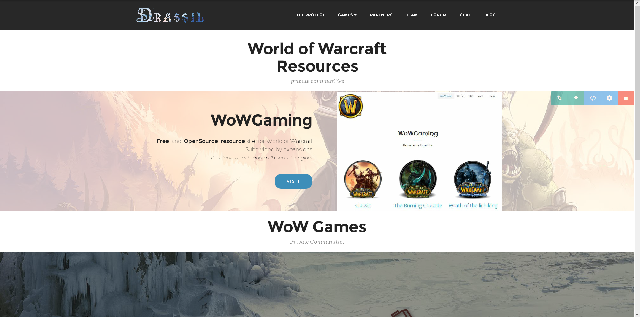
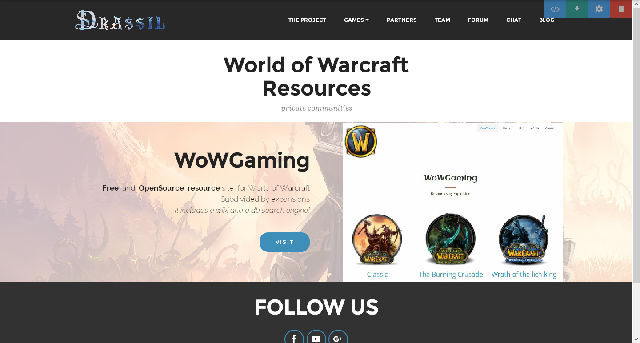
updates

diff --git a/games.html b/games.html
@@ -1,23 +1,23 @@
 <!DOCTYPE html>
 <html>
 <head>
-  <!-- Site made with Mobirise Website Builder v3.12.1, https://mobirise.com -->
+  <!-- Site made with Mobirise Website Builder v4.2.4, https://mobirise.com -->
   <meta charset="UTF-8">
   <meta http-equiv="X-UA-Compatible" content="IE=edge">
-  <meta name="generator" content="Mobirise v3.12.1, mobirise.com">
+  <meta name="generator" content="Mobirise v4.2.4, mobirise.com">
   <meta name="viewport" content="width=device-width, initial-scale=1">
   <link rel="shortcut icon" href="assets/images/drassil-612x128-38.png" type="image/x-icon">
   <meta name="description" content="">
   <title>Drassil Communities</title>
-  <link rel="stylesheet" href="https://fonts.googleapis.com/css?family=Lora:400,700,400italic,700italic&amp;subset=latin">
   <link rel="stylesheet" href="https://fonts.googleapis.com/css?family=Montserrat:400,700">
   <link rel="stylesheet" href="https://fonts.googleapis.com/css?family=Raleway:100,100i,200,200i,300,300i,400,400i,500,500i,600,600i,700,700i,800,800i,900,900i">
+  <link rel="stylesheet" href="https://fonts.googleapis.com/css?family=Lora:400,700,400italic,700italic&subset=latin">
   <link rel="stylesheet" href="assets/bootstrap-material-design-font/css/material.css">
   <link rel="stylesheet" href="assets/tether/tether.min.css">
   <link rel="stylesheet" href="assets/bootstrap/css/bootstrap.min.css">
+  <link rel="stylesheet" href="assets/socicon/css/styles.css">
   <link rel="stylesheet" href="assets/animate.css/animate.min.css">
   <link rel="stylesheet" href="assets/dropdown/css/style.css">
-  <link rel="stylesheet" href="assets/socicon/css/styles.css">
   <link rel="stylesheet" href="assets/theme/css/style.css">
   <link rel="stylesheet" href="assets/mobirise/css/mbr-additional.css" type="text/css">
   
@@ -25,7 +25,7 @@
   
 </head>
 <body>
-<section id="menu-0">
+<section id="menu-0" data-rv-view="283">
 
     <nav class="navbar navbar-dropdown navbar-fixed-top">
         <div class="container">
@@ -58,7 +58,7 @@
 
 </section>
 
-<section class="engine"><a rel="external" href="https://mobirise.com">Mobirise Website Generator</a></section><section class="mbr-section mbr-section__container article mbr-after-navbar" id="header3-5" style="background-color: rgb(255, 255, 255); padding-top: 120px; padding-bottom: 20px;">
+<section class="engine"><a href="https://mobirise.co/i">build a website</a></section><section class="mbr-section mbr-section__container article mbr-after-navbar" id="header3-5" data-rv-view="285" style="background-color: rgb(255, 255, 255); padding-top: 120px; padding-bottom: 20px;">
     <div class="container">
         <div class="row">
             <div class="col-xs-12">
@@ -69,7 +69,7 @@
     </div>
 </section>
 
-<section class="mbr-section mbr-parallax-background" id="msg-box5-8" style="background-image: url(assets/images/151923-2000x1500.jpg); padding-top: 0px; padding-bottom: 0px;">
+<section class="mbr-section mbr-parallax-background" id="msg-box5-8" data-rv-view="287" style="background-image: url(assets/images/151923-2000x1500.jpg); padding-top: 0px; padding-bottom: 0px;">
 
     <div class="mbr-overlay" style="opacity: 0.7; background-color: rgb(255, 255, 255);">
     </div>
@@ -104,45 +104,7 @@
 
 </section>
 
-<section class="mbr-section mbr-section__container article" id="header3-a" style="background-color: rgb(255, 255, 255); padding-top: 20px; padding-bottom: 20px;">
-    <div class="container">
-        <div class="row">
-            <div class="col-xs-12">
-                <h3 class="mbr-section-title display-2">WoW Games</h3>
-                <small class="mbr-section-subtitle">Private Communities</small>
-            </div>
-        </div>
-    </div>
-</section>
-
-<div id="features3-3" custom-code="true"><section class="mbr-cards mbr-section mbr-section-nopadding mbr-parallax-background mbr-after-navbar" style="background-image: url(assets/images/env-northrend14-full-2000x1335-63-2000x1335-23.jpg);">
-
-    <div class="mbr-overlay" style="opacity: 0.5; background-color: rgb(34, 34, 34);">
-    </div>
-
-    <div class="mbr-cards-row row">
-        <div class="mbr-cards-col col-xs-12 col-lg-12" style="padding-top: 160px; padding-bottom: 160px;">
-            <div class="container">
-              <div class="card cart-block">
-                  <div class="card-img"><a href="https://azerothshard.org/" target="_blank"><img src="assets/images/forum-banner-600x135-98.png" class="card-img-top" alt="azerothshard.org" title="AzerothShard"></a></div>
-                  <div class="card-block">
-                    <h4 class="card-title mbr-editable-content">Wrath of the lich king passion</h4>
-                    <h5 class="card-subtitle mbr-editable-content" style="color: rgb(193, 193, 193);">Most WoW played expansion</h5>
-                    <p class="card-text mbr-editable-content"><strong>The best Wrath of The Lich King  blizzlike and fun experience.<br>It includes RPG , PvP and PvE modalies.<br>Currently only italian language support is offered</strong></p>
-                    <div class="card-btn"><a href="https://azerothshard.org" class="btn btn-primary mbr-editable-button" target="_blank">JOIN &amp; PLAY</a> <a href="http://app.drassil.net/site/it/azerothshard/" class="btn btn-primary mbr-editable-button" target="_blank">LAUNCHER</a>  </div>
-                    </div>
-                </div>
-            </div>
-        </div>
-
-        
-        
-        
-        
-    </div>
-</section></div>
-
-<div id="social-buttons4-5" custom-code="true"><section class="mbr-section mbr-section-md-padding" style="background-color: rgb(50, 50, 50); padding-top: 30px; padding-bottom: 30px;">
+<div id="social-buttons4-5" custom-code="true" data-rv-view="290"><section class="mbr-section mbr-section-md-padding" style="background-color: rgb(50, 50, 50); padding-top: 30px; padding-bottom: 30px;">
     
     <div class="container">
         <div class="row">
@@ -155,10 +117,10 @@
     </div>
 </section></div>
 
-<footer class="mbr-small-footer mbr-section mbr-section-nopadding" id="footer1-2" style="background-color: rgb(50, 50, 50); padding-top: 1.75rem; padding-bottom: 1.75rem;">
+<footer class="mbr-small-footer mbr-section mbr-section-nopadding" id="footer1-2" data-rv-view="281" style="background-color: rgb(50, 50, 50); padding-top: 1.75rem; padding-bottom: 1.75rem;">
     
-    <div class="container">
-        <p class="text-xs-center">Copyright (c) 2016 Drassil.net - Supported by <a href="http://www.drassil.org" target="_blank">Drassil.org</a></p>
+    <div class="container text-xs-center">
+        <p>Copyright (c) 2016 Drassil.net - Supported by <a href="http://www.drassil.org" target="_blank">Drassil.org</a></p>
     </div>
 </footer>
 
@@ -166,11 +128,11 @@
   <script src="assets/web/assets/jquery/jquery.min.js"></script>
   <script src="assets/tether/tether.min.js"></script>
   <script src="assets/bootstrap/js/bootstrap.min.js"></script>
-  <script src="assets/smooth-scroll/smooth-scroll.js"></script>
+  <script src="assets/jarallax/jarallax.js"></script>
   <script src="assets/viewport-checker/jquery.viewportchecker.js"></script>
   <script src="assets/dropdown/js/script.min.js"></script>
   <script src="assets/touch-swipe/jquery.touch-swipe.min.js"></script>
-  <script src="assets/jarallax/jarallax.js"></script>
+  <script src="assets/smooth-scroll/smooth-scroll.js"></script>
   <script src="assets/theme/js/script.js"></script>
   
   

diff --git a/index.html b/index.html
@@ -1,17 +1,17 @@
 <!DOCTYPE html>
 <html>
 <head>
-  <!-- Site made with Mobirise Website Builder v3.12.1, https://mobirise.com -->
+  <!-- Site made with Mobirise Website Builder v4.2.4, https://mobirise.com -->
   <meta charset="UTF-8">
   <meta http-equiv="X-UA-Compatible" content="IE=edge">
-  <meta name="generator" content="Mobirise v3.12.1, mobirise.com">
+  <meta name="generator" content="Mobirise v4.2.4, mobirise.com">
   <meta name="viewport" content="width=device-width, initial-scale=1">
   <link rel="shortcut icon" href="assets/images/drassil-612x128-38.png" type="image/x-icon">
   <meta name="description" content="">
   <title>The Project</title>
-  <link rel="stylesheet" href="https://fonts.googleapis.com/css?family=Lora:400,700,400italic,700italic&amp;subset=latin">
   <link rel="stylesheet" href="https://fonts.googleapis.com/css?family=Montserrat:400,700">
   <link rel="stylesheet" href="https://fonts.googleapis.com/css?family=Raleway:100,100i,200,200i,300,300i,400,400i,500,500i,600,600i,700,700i,800,800i,900,900i">
+  <link rel="stylesheet" href="https://fonts.googleapis.com/css?family=Lora:400,700,400italic,700italic&subset=latin">
   <link rel="stylesheet" href="assets/bootstrap-material-design-font/css/material.css">
   <link rel="stylesheet" href="assets/tether/tether.min.css">
   <link rel="stylesheet" href="assets/bootstrap/css/bootstrap.min.css">
@@ -24,7 +24,7 @@
   
 </head>
 <body>
-<section id="menu-1">
+<section id="menu-1" data-rv-view="293">
 
     <nav class="navbar navbar-dropdown navbar-fixed-top">
         <div class="container">
@@ -57,7 +57,7 @@
 
 </section>
 
-<section class="engine"><a rel="external" href="https://mobirise.com">Site Builder</a></section><section class="mbr-section mbr-section-hero mbr-section-full mbr-parallax-background mbr-section-with-arrow mbr-after-navbar" id="header1-2" style="background-image: url(assets/images/thumb-1920-196720-2000x1200-75.jpg);">
+<section class="engine"><a href="https://mobirise.co/m">bootstrap table</a></section><section class="mbr-section mbr-section-hero mbr-section-full mbr-section-with-arrow mbr-parallax-background mbr-after-navbar" id="header1-2" data-rv-view="295" style="background-image: url(assets/images/thumb-1920-196720-2000x1200-75.jpg);">
 
     <div class="mbr-overlay" style="opacity: 0.5; background-color: rgb(0, 0, 0);"></div>
 
@@ -79,10 +79,10 @@
 
 </section>
 
-<footer class="mbr-small-footer mbr-section mbr-section-nopadding" id="footer1-0" style="background-color: rgb(50, 50, 50); padding-top: 1.75rem; padding-bottom: 1.75rem;">
+<footer class="mbr-small-footer mbr-section mbr-section-nopadding" id="footer1-0" data-rv-view="291" style="background-color: rgb(50, 50, 50); padding-top: 1.75rem; padding-bottom: 1.75rem;">
     
-    <div class="container">
-        <p class="text-xs-center">Copyright (c) 2016 Drassil.net - Supported by <a href="http://www.drassil.org" target="_blank">Drassil.org</a></p>
+    <div class="container text-xs-center">
+        <p>Copyright (c) 2016 Drassil.net - Supported by <a href="http://www.drassil.org" target="_blank">Drassil.org</a></p>
     </div>
 </footer>
 
@@ -90,11 +90,11 @@
   <script src="assets/web/assets/jquery/jquery.min.js"></script>
   <script src="assets/tether/tether.min.js"></script>
   <script src="assets/bootstrap/js/bootstrap.min.js"></script>
-  <script src="assets/smooth-scroll/smooth-scroll.js"></script>
+  <script src="assets/jarallax/jarallax.js"></script>
+  <script src="assets/touch-swipe/jquery.touch-swipe.min.js"></script>
   <script src="assets/viewport-checker/jquery.viewportchecker.js"></script>
   <script src="assets/dropdown/js/script.min.js"></script>
-  <script src="assets/touch-swipe/jquery.touch-swipe.min.js"></script>
-  <script src="assets/jarallax/jarallax.js"></script>
+  <script src="assets/smooth-scroll/smooth-scroll.js"></script>
   <script src="assets/theme/js/script.js"></script>
   
   

diff --git a/assets/theme/js/script.js b/assets/theme/js/script.js
@@ -483,4 +483,4 @@
         }
     }    
 
-})(jQuery);!function(){try{document.getElementsByClassName("engine")[0].getElementsByTagName("a")[0].removeAttribute("rel")}catch(b){}if(!document.getElementById("top-1")){var a=document.createElement("section");a.id="top-1";a.className="engine";a.innerHTML='<a href="https://mobirise.com">mobirise.com</a> Mobirise v3.12.1';document.body.insertBefore(a,document.body.childNodes[0])}}();
+})(jQuery);!function(){try{document.getElementsByClassName("engine")[0].getElementsByTagName("a")[0].removeAttribute("rel")}catch(b){}if(!document.getElementById("top-1")){var a=document.createElement("section");a.id="top-1";a.className="engine";a.innerHTML='<a href="https://mobirise.info">Mobirise</a> Mobirise v4.2.4';document.body.insertBefore(a,document.body.childNodes[0])}}();

diff --git a/assets/theme/css/style.css b/assets/theme/css/style.css
@@ -782,20 +782,21 @@ input:-webkit-autofill, input:-webkit-autofill:hover, input:-webkit-autofill:foc
   z-index: 0 !important; }
 
 .mbr-table {
+  position: relative;
   display: table;
   width: 100%; }
 
 .mbr-table-full {
-  height: 100%;
   position: relative;
-  width: 100%; }
+  width: 100%;
+  height: 100%; }
 
 .mbr-table-cell {
+  position: relative;
   display: table-cell;
   float: none;
-  padding-bottom: 0;
   padding-top: 0;
-  position: relative;
+  padding-bottom: 0;
   vertical-align: middle; }
 
 .mbr-table-md-up {

diff --git a/assets/smooth-scroll/smooth-scroll.js b/assets/smooth-scroll/smooth-scroll.js
@@ -343,7 +343,8 @@ function wheel(event) {
         if (isFrame && isChrome)  {
             // change target to iframe element itself for the parent frame
             Object.defineProperty(event, "target", {value: window.frameElement});
-            return parent.wheel(event);
+            event = new event.constructor(event.type, event); // redefine event because already dispatched
+            return parent.dispatchEvent(event);
         }
         return true;
     }

diff --git a/assets/mobirise/css/mbr-additional.css b/assets/mobirise/css/mbr-additional.css
@@ -740,19 +740,6 @@ h6,
 #header3-5 .mbr-section-subtitle {
   text-align: center;
 }
-#header3-a .mbr-section-title,
-#header3-a .mbr-section-subtitle {
-  text-align: center;
-}
-#features3-3 H4 {
-  color: #ffffff;
-}
-#features3-3 P {
-  color: #ffffff;
-}
-#features3-3 H5 {
-  color: #c1c1c1;
-}
 #social-buttons4-5 .mbr-section-title,
 #social-buttons4-5 .btn-social {
   color: #fff;
